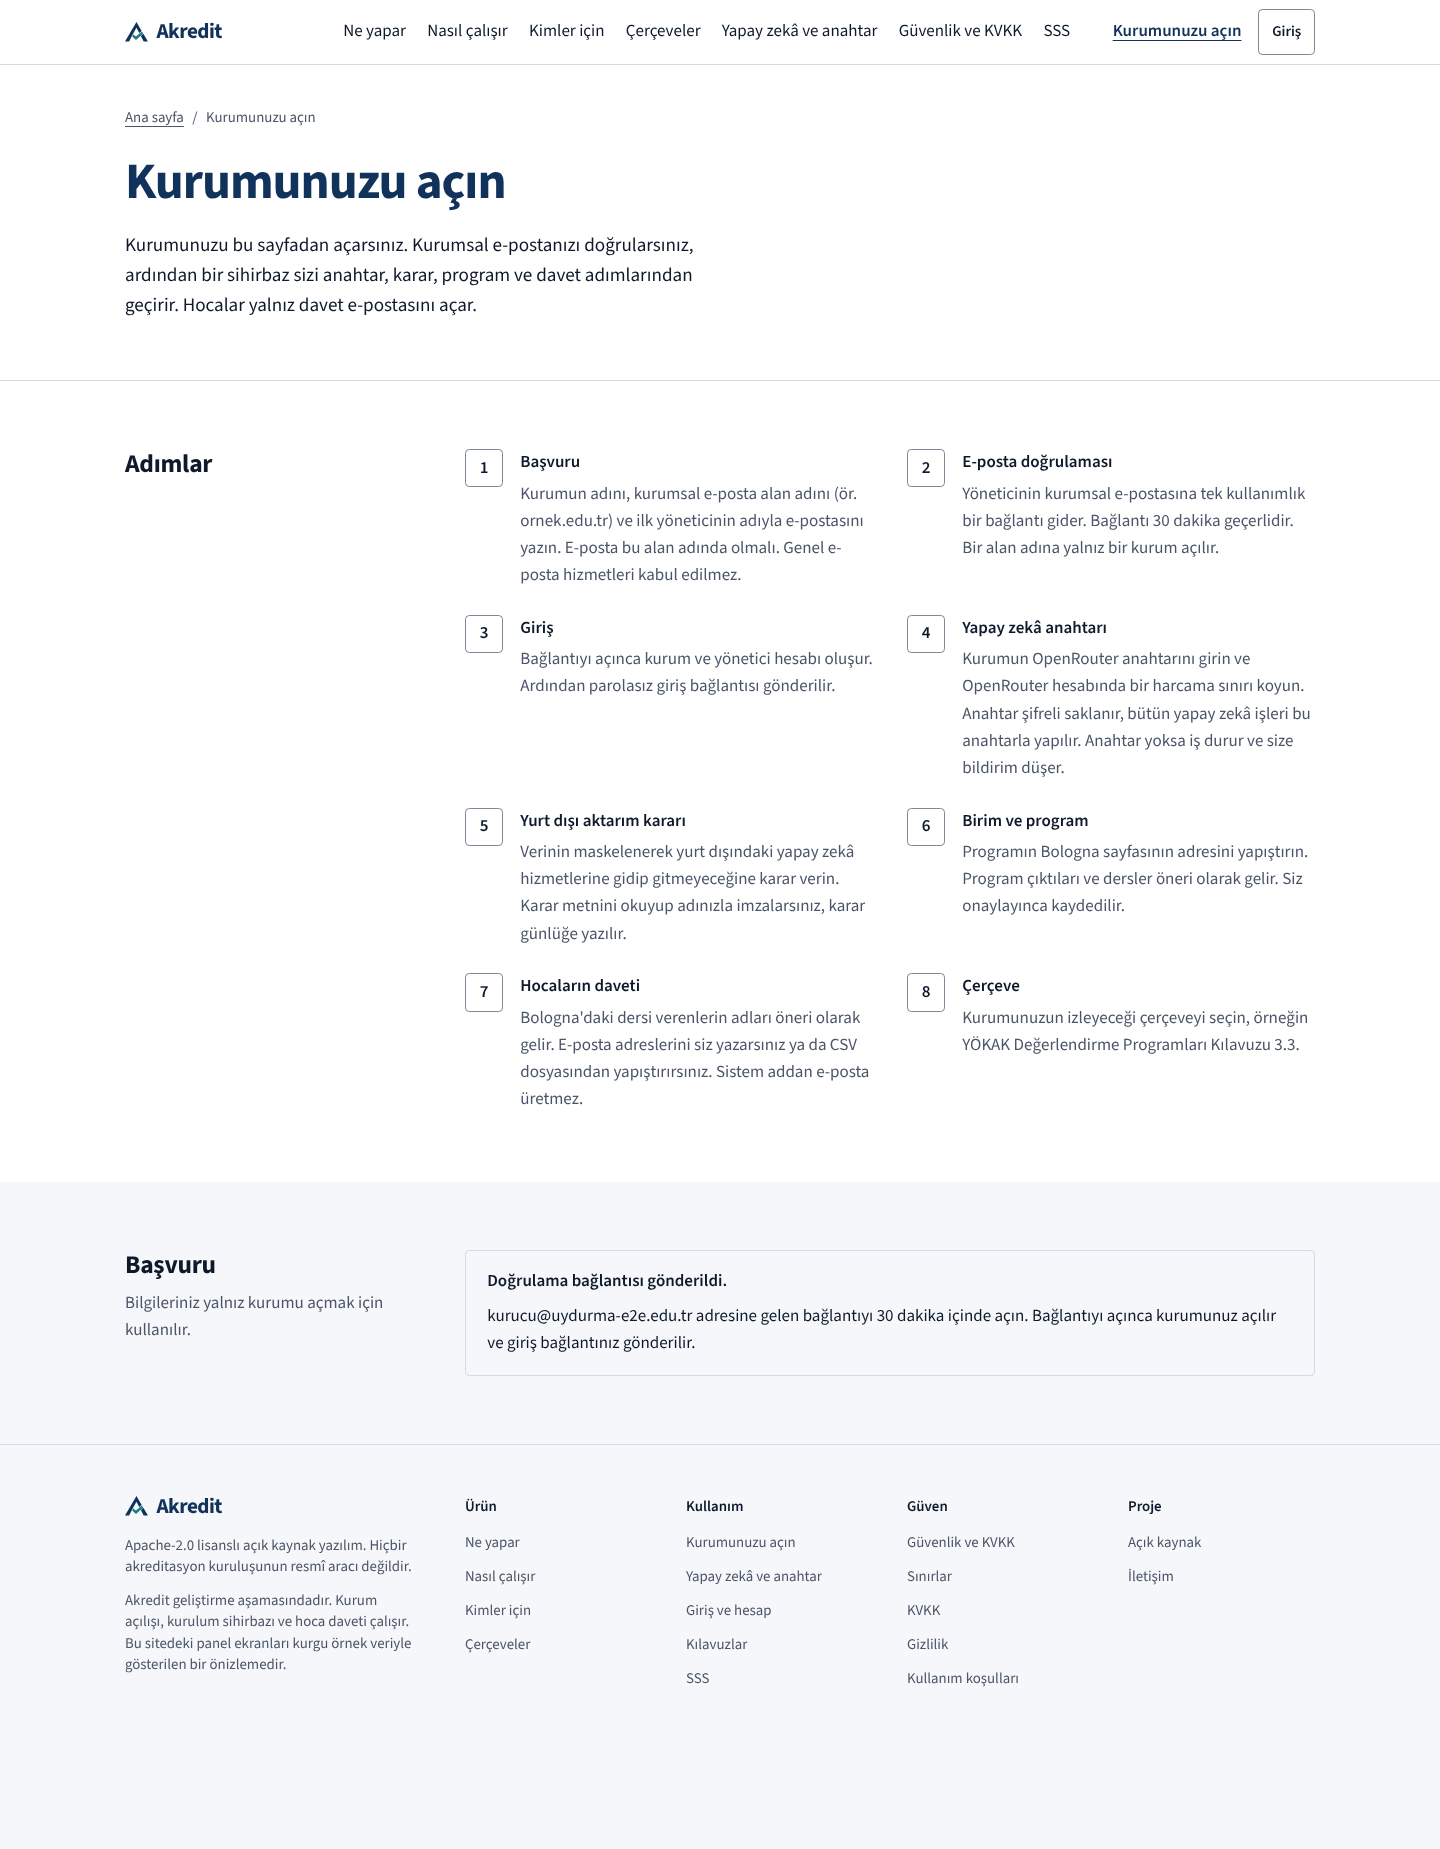
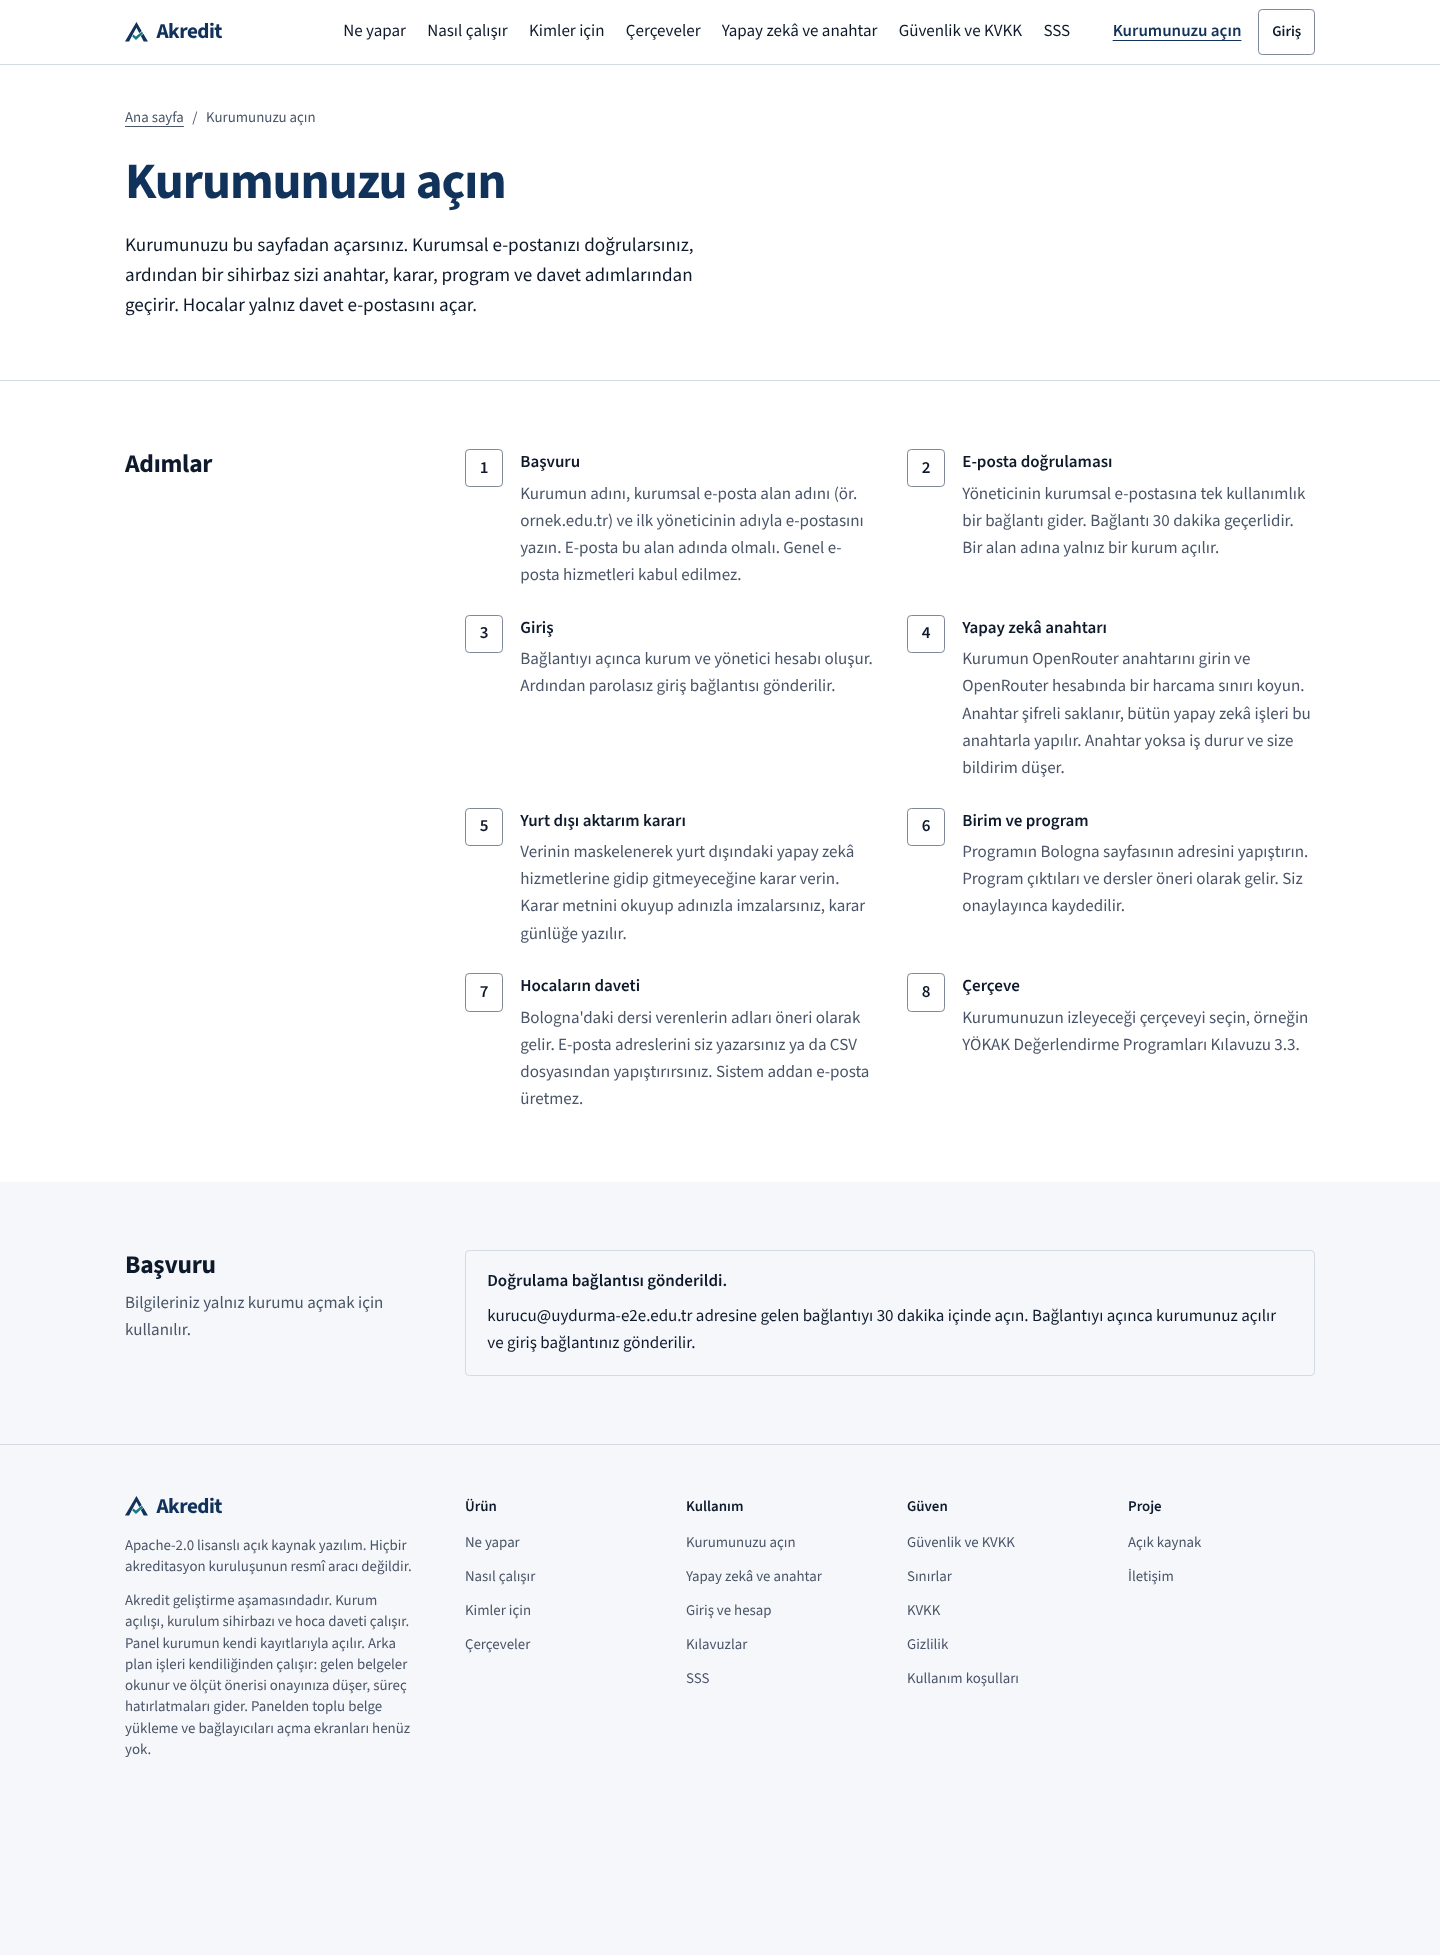
İP-36 plan dosyasını, raporunu ve işçi README'sini yaz (İP-36)

diff --git a/docs/raporlar/IP-36.md b/docs/raporlar/IP-36.md
@@ -1,0 +1,100 @@
+# İP-36 raporu: İşçinin üretimde kendi kendine çalışması
+
+- **Dal:** `ip/36-isci-calisma`
+- **Durum:** inceleme
+- **Test:** `pnpm verify` temiz. Vitest işçi: 35 → 48 (+13: yapılandırma 7, kurum dolaşımı/bağlayıcı/pg-boss/arama 6). Uçtan uca (gerçek PostgreSQL 16 + pgvector, gerçek pg-boss 12): 12/12 denetim. Web Vitest 226/226, `next build` gerçek ve örnek kipte başarılı.
+
+## Özet
+
+İşçinin üretim giriş noktası `apps/isci/src/ana.ts`. Ortamı doğrular, ayrıcalıksız uygulama kullanıcısıyla bağlanır, pg-boss'u başlatır, bütün kuyrukları ve zamanlamaları kaydeder, `/saglik` ucunu açar ve SIGTERM'de süren işleri bitirip kapanır. Docker, Compose ve Helm işçiyi bu girişle başlatır. Panel artık varsayılan olarak gerçek veritabanıyla çalışır; örnek veri yalnız `AKREDIT_ORNEK_VERI=1` ile.
+
+## Kuyruklar ve zamanlamalar
+
+| Kuyruk | Ne yapar | Zamanlama (Europe/Istanbul) |
+|---|---|---|
+| `kanit.cikar`, `kanit.ocr`, `kanit.zenginlestir`, `kanit.sinifla` (+ `.olu`) | Kanıt hattı (İP-10), kurum anahtarı iş anında (İP-35) | işle gelir |
+| `baglayici.planla {tur}` | Bağlayıcısı açık kurumlara eşitleme işi koyar | Bologna `17 3 * * 1`, AVESİS `37 3 * * 2`, YÖK Atlas `47 4 15 9 *`, e-posta `*/15`, Drive `7-59/15` |
+| `baglayici.esitle {kurumId, tur}` | Tek kurumun tek bağlayıcısı; elle de konabilir (YÖK Atlas) | `stately`, kurum+tür başına tek |
+| `surec.tik` | Bütün kurumlarda süreç motoru turu: kendiliğinden başlatma, görev, hatırlatma, gecikme, yükseltme, e-posta | `*/5 * * * *` + açılışta bir kez, `singleton` |
+| `bildirim.eposta {kurumId}` | Bekleyen bildirim e-postalarını hemen gönderir | web koyar |
+| `gunluk.dogrula` | Bütün kurumlarda günlük zinciri; bozuksa hata günlüğü ve `/saglik` 503 | `23 2 * * *` |
+| `rapor.kidr {kurumId, kisiId, girdi}` | KİDR taslağı, isteyen kişinin yetkisiyle | web koyar |
+
+Birden çok işçi kopyası güvenlidir: pg-boss zamanlamayı küme genelinde bir kez tetikler; süreç turu `singleton`.
+
+## Kurum ayarı: bağlayıcılar
+
+`kurum.ayarlar.baglayicilar` (zod: `apps/isci/src/calisma/kurumlar.ts`). Her bağlayıcı ayrı doğrulanır; `acik: true` değilse ya da geçersizse çalışmaz.
+
+- `bologna`: `{ acik, adresler[] }`: program Bologna adresleri; okunan veri JSON kanıt.
+- `avesis`: `{ acik }`: adresler kişi kaydındaki `avesis_adresi` sütunundan.
+- `yokatlas`: `{ acik, programKodlari[] }` (9 hane).
+- `eposta`: IMAP (XOAUTH2, salt okuma), `izinliGonderenler`, şifreli `belirtec`, `durum` (UIDVALIDITY + son UID).
+- `drive`: `{ acik, saglayici: google|microsoft, klasorId, belirtec, durum }`.
+- Her çalışma `son: { zaman, eklenen, zatenVar, ileti? }` yazar. Yenilenen OAuth belirteci şifreli geri yazılır.
+
+Okuma zamanı kanıt içeriğinden çıkarılır (kaynak ayrıntısına yazılır); değişmeyen veri ertesi hafta "zaten var" olur, yeni kanıt üretmez.
+
+## Ortam değişkenleri (işçi)
+
+Zorunlu: `AKREDIT_VT_ADRES` (uygulama kullanıcısı; üretimde süper kullanıcı ya da BYPASSRLS reddedilir). Üretimde nesne deposu zorunlu: `S3_UC_NOKTASI`, `S3_KOVA`, `S3_ERISIM_ANAHTARI`, `S3_GIZLI_ANAHTAR` (isteğe bağlı `S3_BOLGE`, `S3_KILIT_GUN`) ya da `AKREDIT_DEPO_DIZINI` + `AKREDIT_DEPO_IMZA_GIZLISI` (≥32).
+Uyarı (sağlık ucunda görünür): `AKREDIT_ANAHTAR_KASASI`, `AKREDIT_SMTP_SUNUCU` (+ `_PORT`, `_KULLANICI`, `_PAROLA`, `AKREDIT_EPOSTA_GONDEREN`), `AKREDIT_BAGLAYICI_ANAHTARI` (32 bayt base64) ve `AKREDIT_GOOGLE_ISTEMCI_*`, `AKREDIT_MICROSOFT_ISTEMCI_*`.
+İsteğe bağlı: `AKREDIT_YZ_HAZIR/ADRES/MODEL` (kurum içi model; anahtarı olmayan kurumlar bunu kullanır, `infra/kurum-ici/yz-ayari.ts` denetimiyle), `AKREDIT_ISCI_PORT` (8080), `AKREDIT_ISCI_ZAMANLAMA` (`0` kapatır), `AKREDIT_SAAT_DILIMI`.
+
+## Gömme ve arama: özellik kaybı
+
+OpenRouter gömme sunmuyor ve kurum anahtarıyla çalışan işte gömme atlanıyor (İP-35). Kanıt arama bu yüzden PostgreSQL tam metin aramasıyla çalışır: `to_tsvector('turkish', metin)` üzerinde GIN dizini (0010 göçü), `websearch_to_tsquery`, `ts_rank`, `ts_headline` alıntısı (`apps/isci/src/arama.ts`, `kanitAra`). Sorgu gömmesi verilir ve parçanın gömmesi varsa sonuç benzerlikle yeniden sıralanır.
+
+Kayıp: anlamsal arama yok. Eş anlamlı ya da farklı sözcükle yazılmış içerik bulunmaz ("memnuniyet anketi" sorgusu "geri bildirim formu" yazan belgeyi bulmaz). Türkçe kök bulucu çekim eklerini çözer ("öğrencilerin anketleri" → "öğrenci anketi"), ama kök bulucunun hataları (kısa köklerde aşırı kesme) olabilir. Kanıt sınıflama (ölçüt önerisi) gömme kullanmadığı için etkilenmez.
+
+## Dosyalar
+
+- `apps/isci/src/ana.ts`: giriş noktası.
+- `apps/isci/src/calisma/`: `yapilandirma.ts`, `isci.ts` (kuyruklar, `ZAMANLAMA`), `kurumlar.ts` (kurum dolaşımı, bağlayıcı ayarı), `baglayici-isleri.ts` (Bologna, AVESİS, YÖK Atlas, IMAP+TLS soketi, Drive), `saglik.ts`; testler `yapilandirma.test.ts`, `isci.test.ts`, `test/fixtures/yokatlas-arama.json` (İP-23 fixture'ının kopyası).
+- `apps/isci/src/arama.ts`: gömmesiz kanıt arama.
+- `apps/isci/test/uctan-uca.ts`, `infra/gelistirme/isci-uctan-uca.sh`: uçtan uca sınama.
+- `packages/vt/src/gocler/0010_isci.sql`: `isci_kurumlari()`, tam metin dizini.
+- `infra/uretim/isci.Dockerfile`, `infra/gelistirme/isci.Dockerfile` (artık `pnpm deploy` yok; İP-26 notundaki .ts hatası giderildi), `infra/uretim/docker-compose.yml`, `infra/kurum-ici/docker-compose.yml`, `infra/gelistirme/docker-compose.yml` (`--profile isci`), `infra/*/ornek.env`, Helm `templates/uygulama.yaml` (komut, hazırlık/canlılık denetimi, 50 sn kapanış), `values.yaml`.
+- `.github/workflows/ci.yml`: postgres işine "İşçi uçtan uca"; e2e derlemesine `AKREDIT_ORNEK_VERI=1`.
+- `apps/web/src/veri/kip.ts`, `next.config.ts`, `veri/sunucu.ts` (`panelSimdi`), `veri/istemci.ts`, `degerlendirici/_portal/sunucu.ts`, `giris/giris-formu.tsx`, `api/_ortak/sunucu.ts`, `panel/page.tsx`, `panel/surecler/page.tsx`, `e2e/yardim/ortam.ts`.
+- Site metinleri: `src/site/icerik.ts` (durum notu, SSS), `(site)/sinirlar/page.tsx`, `(site)/belgeler/icerik.ts`, `(site)/belgeler/[kilavuz]/page.tsx`.
+
+## Sahip olunmayan yollarda en küçük değişiklikler
+
+- `packages/vt/src/gocler/meta/_journal.json`: 0010 girdisi.
+- `pnpm-lock.yaml`: `apps/isci` → `@akredit/baglayicilar` (çalışma alanı bağlantısı). Yeni dış bağımlılık yok.
+- Web: veri kipi tek dosyaya toplandı; "kalan gün" hesabı gerçek kipte bugünü kullanır (önceden örneğin sabit gününü kullanıyordu, gerçek kipte yanlış sayı gösterirdi).
+
+## Uçtan uca sınama çıktısı (yerel PostgreSQL 16.15 + pgvector, geçici küme)
+
+```
+geçti: işçi ayakta, /saglik 200 (calisiyor)
+geçti: ZIP'ten bir kanıt alındı, sistem dosyası atlandı (eklendi)
+geçti: hat işledi: çıkarma → zenginleştirme → sınıflama → öneri oluştu
+geçti: öneri onay bekliyor (karar yok; insan onayı gerekli)
+geçti: öneri ölçüt kodunu taşıyor (modelin sayısı değil, listedeki kod)
+geçti: model yalnız iç ağdaki (kurum içi) sunucuya çağrıldı
+geçti: gömme yokken Türkçe tam metin arama kanıtı buldu (çekim ekleri: öğrencilerin/anketleri)
+geçti: süreç motoru turu hocaya hatırlatma bildirimi üretti
+geçti: takvimdeki tarihle süreç kendiliğinden başladı, görev açıldı
+geçti: zamanlanmış işler kayıtlı (7)
+geçti: SIGTERM ile temiz kapandı (çıkış kodu 0)
+geçti: kapanış günlüğe yazıldı
+```
+
+Model 127.0.0.1'de sahte OpenAI uyumlu sunucudur (kurum içi model yolu); gerçek modelle denenmedi. Hatırlatma turu sınamada beklemek yerine kuyruğa elle konur (zamanlayıcı 5 dakikada bir koyar).
+
+## Bilinen sınırlar
+
+- Panelden bağlayıcı açma ekranı ve OAuth onay akışı yok; bağlayıcılar şimdilik kurum ayarına yazılarak açılır. Toplu belge yükleme ekranı yok: web, `zipAl`/`kanitAl`'ı pg-boss kuyruğuyla çağırmalı (uçtan uca sınama bu yolu kullanır).
+- Bologna, AVESİS, YÖK Atlas, IMAP ve Drive eşitlemeleri bu İP'de canlı sistemlerle denenmedi (birim testi YÖK Atlas kayıtlı yanıtıyla; IMAP/Drive yalnız "yapılandırılmamış" yolu sınandı).
+- pg-boss şeması ilk bağlanan uygulama kullanıcısına ait olur; web ve işçi aynı kullanıcıyı kullanmalı (bugünkü Compose/Helm düzeni böyle).
+- Docker imajı bu ortamda derlenmedi (CI `imajlar` işi derler). `docker compose config` denetimleri geçti; Helm şablonu `helm` olmadığı için işlenmedi.
+- OpenTelemetry SDK yok (İP-26'dan).
+- Günlük zinciri bozulursa kurumlara bildirim yazılmaz; yalnız işçi günlüğü ve sağlık ucu.
+
+## Sonraki İP'lere notlar
+
+- Web: bağlayıcı ayarları ekranı `kurum.ayarlar.baglayicilar` şemasını (`BaglayiciAyarSemasi`) kullanmalı; "şimdi eşitle" düğmesi `baglayici.esitle` işini koyar. Görev kapatınca `bildirim.eposta`, KİDR için `rapor.kidr` konabilir.
+- Web kanıt arama ekranı `kanitAra` kullanabilir (ya da aynı SQL servis paketine taşınmalı).
+- `AKREDIT_ANAHTAR_KASASI` üretim Compose'unda web hizmetine geçmiyor (yalnız işçiye eklendi); İP-35 kurulum sihirbazı anahtar kaydı için web'e de eklenmeli.

diff --git a/plan/ip/IP-36-isci-calisma.md b/plan/ip/IP-36-isci-calisma.md
@@ -1,0 +1,41 @@
+# İP-36: İşçinin üretimde kendi kendine çalışması
+
+- **Durum:** inceleme
+- **Faz:** 6
+- **Bağımlılık:** İP-10, İP-14, İP-23, İP-26, İP-35
+- **Sahip olduğu yollar:** `apps/isci/src/ana.ts`, `apps/isci/src/calisma/**`, `apps/isci/src/arama.ts`, `apps/isci/test/**`, `apps/isci/package.json`, `packages/vt/src/gocler/0010_isci.sql`, `infra/gelistirme/isci-uctan-uca.sh`, `infra/gelistirme/isci.Dockerfile`, `infra/gelistirme/docker-compose.yml` (işçi hizmeti), `infra/uretim/isci.Dockerfile`, işçi bölümleri: `infra/uretim/docker-compose.yml`, `infra/kurum-ici/docker-compose.yml`, `infra/kurum-ici/helm/akredit/**`, `apps/web/src/veri/kip.ts`, `apps/web/next.config.ts` (veri kipi), `apps/web/src/site/icerik.ts` (durum notları), `docs/raporlar/IP-36.md`
+- **Büyüklük:** büyük
+
+## Amaç
+
+"Hoca hiçbir şey yapmadan sistem kendi kendine döner." `apps/isci`'nin üretimde çalışan bir giriş noktası yoktu: kanıt hattı, bağlayıcı eşitlemeleri, süreç motorunun takvim/hatırlatma/yükseltme işleri ve rapor üretimi kendiliğinden çalışmıyordu.
+
+## Kapsam
+
+1. `apps/isci/src/ana.ts`: zod ile ortam doğrulaması (eksik zorunlu değişkende açık hata, `/saglik` 503 ve eksik listesi), ayrıcalıksız uygulama kullanıcısıyla PostgreSQL (üretimde süper kullanıcı reddedilir), pg-boss, bütün kuyruklar (kanıt hattının 4 kuyruğu, bağlayıcı planlama/eşitleme, süreç turu, bildirim e-postası, günlük zinciri doğrulaması, KİDR raporu), `kurumFabrikasi` ile kurum anahtarı, nesne deposu sürücüsü (S3 ya da yerel), zarif kapanış (SIGTERM/SIGINT), `/saglik` (200/503).
+2. pg-boss zamanlamaları: Bologna haftalık, AVESİS haftalık, YÖK Atlas yılda bir (ve elle), e-posta ve Drive 15 dakikada bir, süreç turu 5 dakikada bir, günlük zinciri doğrulaması günde bir. Kurum ayarında bağlayıcı açık değilse çalışmaz.
+3. Docker (geliştirme ve üretim), Compose (geliştirme, üretim, kurum içi) ve Helm'de işçi bu giriş noktasıyla başlar; sağlık denetimi `/saglik`.
+4. Gerçek PostgreSQL ve gerçek pg-boss ile uçtan uca sınama (`infra/gelistirme/isci-uctan-uca.sh`, CI postgres işinde); PGlite ile Vitest birim testleri.
+5. Panelin varsayılan veri kipi gerçek veritabanı; örnek kip yalnız `AKREDIT_ORNEK_VERI=1`. Sitedeki durum notları güncel.
+6. Gömme yokken kanıt arama: PostgreSQL tam metin (Türkçe kök bulucu), özellik kaybı belgelendi.
+
+## Kabul ölçütleri
+
+- [x] Giriş noktası ortamı doğrular; eksik zorunlu değişken açık hata ve `/saglik` 503 (`src/calisma/yapilandirma.test.ts`, 7 test).
+- [x] İşçi ayrıcalıksız `UYGULAMA_VT_*` kullanıcısıyla bağlanır; kurumlar `isci_kurumlari()` (0010) ile dolaşılır, kurum içi her okuma kiracı işleminde (`isci.test.ts`, uçtan uca).
+- [x] Bütün kuyruklar kayıtlı, zamanlamalar pg-boss'ta (uçtan uca: 7 zamanlama; `isci.test.ts`).
+- [x] Bağlayıcı yalnız kurum ayarında açıkken çalışır; değişmeyen veri yeni kanıt üretmez; durum kurum ayarına yazılır (`isci.test.ts`).
+- [x] Uçtan uca, gerçek PostgreSQL 16 ve gerçek pg-boss: ZIP → hat → onay bekleyen öneri; süreç turu hatırlatma üretir; SIGTERM ile çıkış kodu 0 (`apps/isci/test/uctan-uca.ts`).
+- [x] Docker/Compose/Helm işçiyi `apps/isci/src/ana.ts` ile başlatır, sağlık denetimi `/saglik` (`infra/uretim/denetle.sh`, `infra/kurum-ici/denetle.sh` geçti).
+- [x] Panel varsayılanı gerçek veri; örnek kip yalnız `AKREDIT_ORNEK_VERI=1` (`apps/web/src/veri/kip.ts`, `next.config.ts`).
+- [x] Gömmesiz Türkçe tam metin arama (`isci.test.ts`, uçtan uca).
+- [x] `pnpm verify` temiz, web derlemesi başarılı.
+
+## Günlük
+
+- 2026-10-28: Giriş noktası, kuyruk kayıtları, zamanlamalar, sağlık ucu yazıldı. pg-boss 12 PGlite arka ucunu desteklediği için pg-boss kayıtları Vitest'te de gerçek pg-boss ile sınandı (İP-10'daki "PGlite pg-boss'u desteklemez" notu artık geçersiz). Uçtan uca sınama yerel PostgreSQL 16 (pgvector) geçici kümesinde geçti.
+- Karar: kurum listesi için tanımlayıcı haklı, yalnız kimlik döndüren `isci_kurumlari()` (0010 göçü). İşçiye `kurum` tablosunu okuma ayrıcalığı verilmedi.
+- Karar: bağlayıcı ayarı ve eşitleme durumu `kurum.ayarlar.baglayicilar.<tür>` altında (İP-23 kararıyla uyumlu; yeni tablo yok). OAuth belirteci şifreli (`AKREDIT_BAGLAYICI_ANAHTARI`), yenilenen belirteç geri yazılır.
+- Karar: Bologna/AVESİS/YÖK Atlas verisi JSON kanıt olur; okuma zamanı içerikten çıkarılıp kaynak ayrıntısına yazılır, böylece değişmeyen veri yeni kanıt üretmez.
+- Karar: SMTP yoksa e-postalar bekletilir (motorun yeniden deneme kuralı), uygulama içi bildirim sürer.
+- Kalan: panelden bağlayıcı açma ve toplu belge yükleme ekranları (web), OAuth onay akışı, AVESİS/Bologna canlı pilot, OpenTelemetry SDK.

diff --git a/apps/isci/README.md b/apps/isci/README.md
@@ -1,5 +1,8 @@
 # @akredit/isci
 
-Arka plan işleri (pg-boss): kanıt hattı, bağlayıcı zamanlamaları, YZ işleri, rapor üretimi, hatırlatmalar.
+Arka plan işleri (pg-boss): kanıt hattı, bağlayıcı eşitlemeleri, süreç motoru (takvim, hatırlatma, yükseltme), bildirim e-postaları, günlük zinciri doğrulaması, rapor üretimi.
 
-Kapsam: [`plan/ip/IP-10-kanit-hatti.md`](../../plan/ip/IP-10-kanit-hatti.md), [`plan/ip/IP-14-surec-motoru.md`](../../plan/ip/IP-14-surec-motoru.md).
+- Giriş noktası: `node apps/isci/src/ana.ts` (sağlık: `GET /saglik`, 8080). Ortam değişkenleri ve kuyruklar: [`docs/raporlar/IP-36.md`](../../docs/raporlar/IP-36.md).
+- Uçtan uca sınama (gerçek PostgreSQL + pg-boss): `bash infra/gelistirme/isci-uctan-uca.sh`.
+
+Kapsam: [`IP-10`](../../plan/ip/IP-10-kanit-hatti.md), [`IP-14`](../../plan/ip/IP-14-surec-motoru.md), [`IP-36`](../../plan/ip/IP-36-isci-calisma.md).
